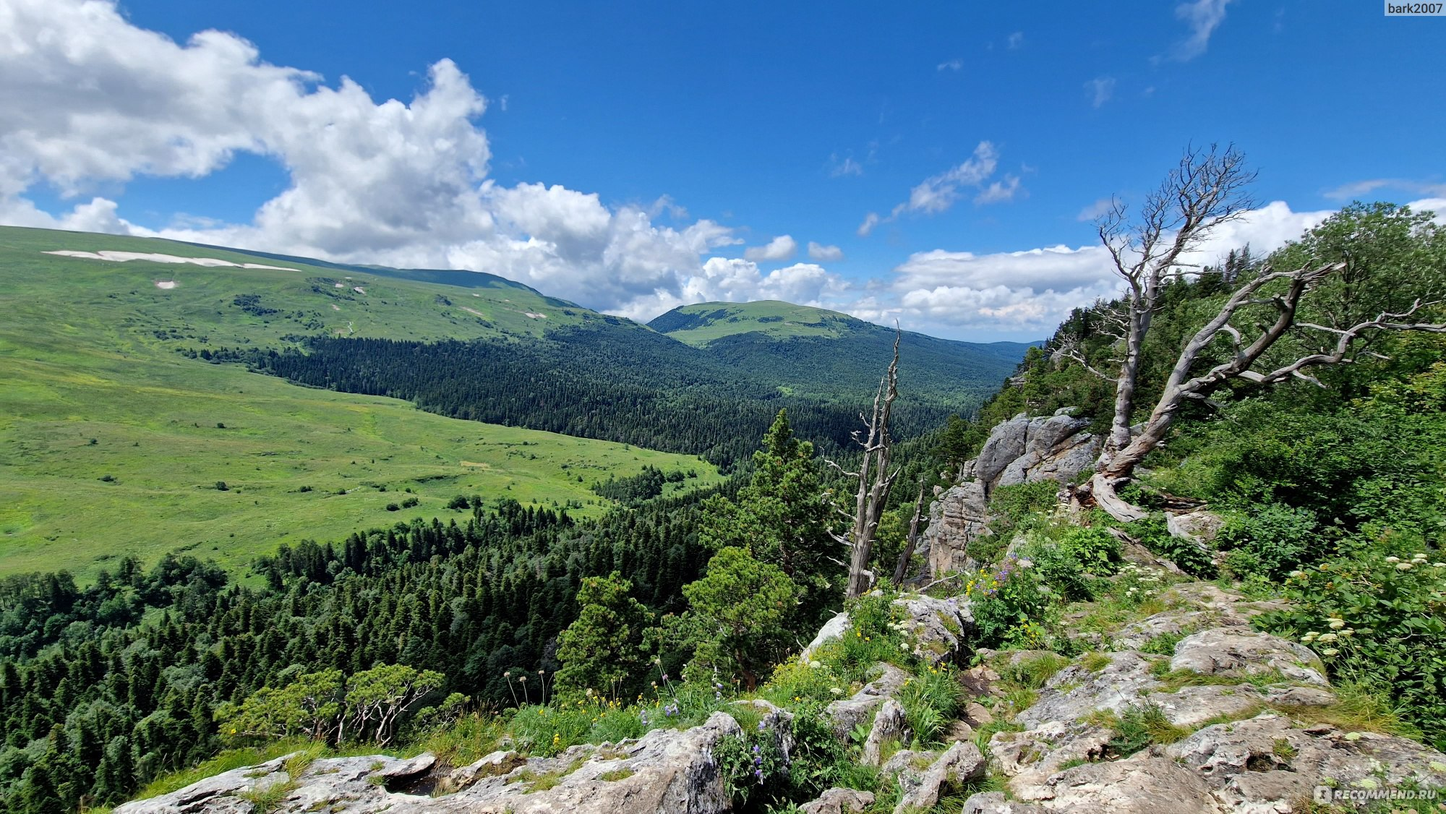
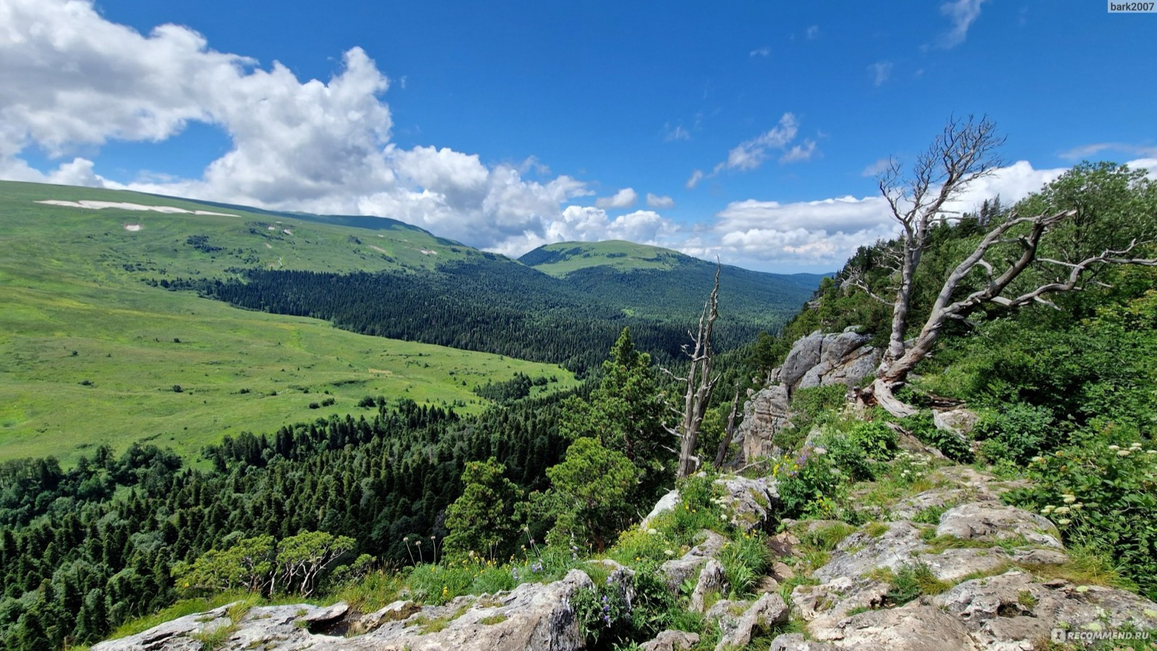
Gornye Vysoty: real assets, simplified plan filters, remove floor param
- Simplify planirovki filters to rooms only (drop area/budget selects) —
  price is now a constant per room count, area filter was redundant
- Wire in real client assets (hero photo, logo, feature icons, lifestyle
  photos, route photo, floor plan renders for studio/1k/2k/3k)
- Compress oversized hero/route images, drop stale duplicate uploads
- Add real floor plan images + accurate areas to planirovki.json

Changed region(s): [[0.9688, 0.7778, 1.0, 0.8089], [0.9062, 0.7778, 0.9375, 0.8089]]

diff --git a/gornye-vysoty/index.html b/gornye-vysoty/index.html
@@ -161,7 +161,7 @@
         </div>
         <div class="gv-catalog-footer">
         <div class="gv-catalog-price">
-          <div class="gv-catalog-price-main">От 4,05 млн руб.*</div>
+          <div class="gv-catalog-price-main">От 5,6 млн руб.*</div>
           <div class="gv-catalog-price-sub">Платёж от 21 400 ₽ в месяц</div>
         </div>
           <div class="gv-catalog-actions">
@@ -222,7 +222,7 @@
         </div>
         <div class="gv-catalog-footer">
         <div class="gv-catalog-price">
-          <div class="gv-catalog-price-main">От 5,2 млн руб.*</div>
+          <div class="gv-catalog-price-main">От 7,7 млн руб.*</div>
           <div class="gv-catalog-price-sub">Платёж от 27 600 ₽ в месяц</div>
         </div>
           <div class="gv-catalog-actions">
@@ -283,7 +283,7 @@
         </div>
         <div class="gv-catalog-footer">
         <div class="gv-catalog-price">
-          <div class="gv-catalog-price-main">От 6,9 млн руб.*</div>
+          <div class="gv-catalog-price-main">От 11 млн руб.*</div>
           <div class="gv-catalog-price-sub">Платёж от 36 200 ₽ в месяц</div>
         </div>
           <div class="gv-catalog-actions">
@@ -385,31 +385,11 @@
         <span class="gv-filter-label">Комнат</span>
         <div class="gv-chip-row" id="filter-rooms">
           <button class="gv-chip is-active" data-rooms="all">Все</button>
-          <button class="gv-chip" data-rooms="1">Студия/1</button>
+          <button class="gv-chip" data-rooms="0">Студия</button>
+          <button class="gv-chip" data-rooms="1">1</button>
           <button class="gv-chip" data-rooms="2">2</button>
           <button class="gv-chip" data-rooms="3">3</button>
-          <button class="gv-chip" data-rooms="4">4+</button>
         </div>
-      </div>
-      <div class="gv-filter">
-        <span class="gv-filter-label">Площадь, м²</span>
-        <select class="gv-input" id="filter-area">
-          <option value="all">Любая</option>
-          <option value="0-40">до 40</option>
-          <option value="40-60">40—60</option>
-          <option value="60-80">60—80</option>
-          <option value="80-999">от 80</option>
-        </select>
-      </div>
-      <div class="gv-filter">
-        <span class="gv-filter-label">Бюджет, ₽</span>
-        <select class="gv-input" id="filter-price">
-          <option value="all">Любой</option>
-          <option value="0-4000000">до 4 млн</option>
-          <option value="4000000-6000000">4—6 млн</option>
-          <option value="6000000-8000000">6—8 млн</option>
-          <option value="8000000-999999999">от 8 млн</option>
-        </select>
       </div>
     </div>
 
@@ -433,32 +413,33 @@
         </div>
 
         <div class="gv-mortgage-field">
-          <div class="gv-mortgage-field-top">
-            <span class="gv-field-label">Стоимость, ₽</span>
-            <span class="gv-title" id="calc-price-out">3 700 000</span>
+          <span class="gv-field-label">Стоимость квартиры, ₽</span>
+          <div class="gv-mortgage-value-row">
+            <span class="gv-mortgage-value" id="calc-price-out">3 700 000 ₽</span>
           </div>
           <input class="gv-mortgage-range" type="range" id="calc-price" min="3700000" max="12000000" step="50000" value="3700000">
         </div>
 
         <div class="gv-mortgage-field">
-          <div class="gv-mortgage-field-top">
-            <span class="gv-field-label">Первый взнос, ₽</span>
-            <span class="gv-title" id="calc-down-out">1 000 000</span>
+          <span class="gv-field-label">Первый взнос, ₽</span>
+          <div class="gv-mortgage-value-row">
+            <span class="gv-mortgage-value" id="calc-down-out">1 000 000 ₽</span>
+            <span class="gv-mortgage-percent" id="calc-down-percent">27%</span>
           </div>
           <input class="gv-mortgage-range" type="range" id="calc-down" min="0" max="6000000" step="50000" value="1000000">
         </div>
 
         <div class="gv-mortgage-field">
-          <div class="gv-mortgage-field-top">
-            <span class="gv-field-label">Срок кредита</span>
-            <span class="gv-title" id="calc-term-out">1 год</span>
+          <span class="gv-field-label">Срок кредита</span>
+          <div class="gv-mortgage-value-row">
+            <span class="gv-mortgage-value" id="calc-term-out">1 год</span>
           </div>
           <input class="gv-mortgage-range" type="range" id="calc-term" min="1" max="30" step="1" value="1">
         </div>
 
-        <div class="gv-mortgage-field">
+        <div class="gv-mortgage-field gv-mortgage-field--phone">
           <span class="gv-field-label">Телефон</span>
-          <input class="gv-input" type="tel" id="calc-phone" placeholder="+7">
+          <input class="gv-mortgage-input" type="tel" id="calc-phone" placeholder="Введите номер">
         </div>
 
         <label class="gv-mortgage-agree">

diff --git a/gornye-vysoty/styles/landing.css b/gornye-vysoty/styles/landing.css
@@ -85,35 +85,48 @@
 
 /* ── ПОДБОР ИПОТЕКИ ── */
 .gv-mortgage { display: grid; grid-template-columns: 1fr 1fr; gap: var(--gv-sp-32); align-items: stretch; }
-.gv-mortgage-form { display: flex; flex-direction: column; gap: var(--gv-sp-24); }
+.gv-mortgage-form { display: flex; flex-direction: column; gap: var(--gv-sp-16); }
 
 .gv-mortgage-tabs { gap: var(--gv-sp-8); }
 .gv-chip--dark { background: var(--gv-ink); color: var(--gv-white); }
 .gv-chip--dark.is-active { background: var(--gv-ink); color: var(--gv-white); }
 
 .gv-mortgage-field {
-  background: var(--gv-white); border-radius: 12px;
-  padding: 14px 16px;
-  display: flex; flex-direction: column; gap: var(--gv-sp-8);
+  background: var(--gv-bg); border-radius: 20px;
+  padding: 16px 16px 0px;
+  display: flex; flex-direction: column; gap: 4px;
 }
+.gv-mortgage-field--phone { padding: 16px; }
 .gv-mortgage-field-top { display: flex; flex-direction: column; gap: 4px; }
+
+.gv-mortgage-field .gv-field-label { font-size: 14px; line-height: 16px; }
+.gv-mortgage-value-row { display: flex; align-items: baseline; justify-content: space-between; }
+.gv-mortgage-value { font-family: var(--gv-font); font-weight: 500; font-size: 16px; line-height: 20px; color: var(--gv-ink); }
+.gv-mortgage-percent { font-family: var(--gv-font); font-size: 14px; color: var(--gv-ink); opacity: 0.4; }
 
 .gv-mortgage-range {
   -webkit-appearance: none; appearance: none;
-  width: 100%; height: 4px; border-radius: 100px;
-  background: rgba(58,73,81,0.15);
+  width: 100%; height: 2px; border-radius: 0;
+  background: var(--gv-ink);
+  margin-top: 12px;
   cursor: pointer;
 }
 .gv-mortgage-range::-webkit-slider-thumb {
   -webkit-appearance: none; appearance: none;
-  width: 18px; height: 18px; border-radius: 50%;
-  background: var(--gv-accent); border: 3px solid var(--gv-white);
-  box-shadow: 0 0 0 1px var(--gv-accent);
+  width: 24px; height: 24px; border-radius: 50%;
+  background: var(--gv-white); border: 2px solid var(--gv-ink);
 }
 .gv-mortgage-range::-moz-range-thumb {
-  width: 18px; height: 18px; border-radius: 50%; border: 3px solid var(--gv-white);
-  background: var(--gv-accent); box-shadow: 0 0 0 1px var(--gv-accent);
+  width: 24px; height: 24px; border-radius: 50%; border: 2px solid var(--gv-ink);
+  background: var(--gv-white);
 }
+
+.gv-mortgage-input {
+  font-family: var(--gv-font); font-weight: 500; font-size: 16px; line-height: 20px;
+  color: var(--gv-ink); background: transparent; border: none; padding: 0; width: 100%;
+}
+.gv-mortgage-input::placeholder { color: var(--gv-ink); opacity: 0.4; }
+.gv-mortgage-input:focus { outline: none; }
 
 .gv-mortgage-agree { display: flex; align-items: flex-start; gap: var(--gv-sp-8); }
 .gv-mortgage-agree input { margin-top: 3px; accent-color: var(--gv-accent); }
@@ -158,7 +171,7 @@
   display: grid; grid-template-columns: repeat(4, 1fr); gap: var(--gv-sp-16);
 }
 .gv-plan-card {
-  background: var(--gv-white); border-radius: 20px; overflow: hidden;
+  background: var(--gv-bg); border-radius: 20px; overflow: hidden;
   display: flex; flex-direction: column;
   transition: transform 0.15s ease, box-shadow 0.15s ease;
 }
@@ -168,6 +181,8 @@
 .gv-plan-card-title { font-weight: 700; font-size: 18px; }
 .gv-plan-card-meta { font-size: 14px; opacity: 0.6; }
 .gv-plan-card-price { font-weight: 700; font-size: 18px; color: var(--gv-accent); margin-top: var(--gv-sp-4); }
+.gv-plan-card-actions { display: flex; flex-direction: column; gap: 8px; margin-top: var(--gv-sp-8); }
+.gv-plan-card-actions .gv-btn { width: 100%; }
 
 .gv-plans-empty { padding: var(--gv-sp-56) 0; text-align: center; opacity: 0.5; }
 
@@ -176,7 +191,7 @@
 @media (max-width: 480px)  { .gv-plans-grid { grid-template-columns: 1fr; } }
 
 /* ── КАТАЛОГ КВАРТИР ── */
-#catalog { background: var(--gv-white); }
+#catalog, #calculator, #plans { background: var(--gv-white); }
 .gv-catalog-grid { display: flex; flex-direction: column; gap: var(--gv-sp-16); }
 .gv-catalog-card {
   display: grid; grid-template-columns: 42% 1fr;
@@ -267,7 +282,8 @@
   display: flex; gap: var(--gv-sp-16);
   overflow-x: auto; scroll-snap-type: x mandatory;
   scrollbar-width: none; -webkit-overflow-scrolling: touch;
-  margin: 0 calc(-1 * var(--gv-side)); padding: 0 var(--gv-side);
+  margin-right: calc(-1 * var(--gv-side));
+  padding-right: 0;
 }
 .gv-routes-track::-webkit-scrollbar { display: none; }
 

diff --git a/gornye-vysoty/js/plans.js b/gornye-vysoty/js/plans.js
@@ -5,8 +5,6 @@
   var countEl = document.getElementById('plans-count');
   var emptyEl = document.getElementById('plans-empty');
   var roomsWrap = document.getElementById('filter-rooms');
-  var areaSelect = document.getElementById('filter-area');
-  var priceSelect = document.getElementById('filter-price');
 
   var allPlans = [];
   var activeRooms = 'all';
@@ -15,17 +13,8 @@
     return Math.round(n).toLocaleString('ru-RU') + ' ₽';
   }
 
-  function matchesRange(value, rangeStr) {
-    if (rangeStr === 'all') return true;
-    var parts = rangeStr.split('-');
-    var min = Number(parts[0]);
-    var max = Number(parts[1]);
-    return value >= min && value <= max;
-  }
-
   function matchesRooms(plan) {
     if (activeRooms === 'all') return true;
-    if (activeRooms === '4') return plan.rooms >= 4;
     return plan.rooms === Number(activeRooms);
   }
 
@@ -38,22 +27,19 @@
         img +
         '<div class="gv-plan-card-body">' +
           '<div class="gv-plan-card-title">' + plan.title + '</div>' +
-          '<div class="gv-plan-card-meta">' + plan.area + ' м² · ' + plan.floor + ' этаж</div>' +
+          '<div class="gv-plan-card-meta">' + plan.area + ' м²</div>' +
           '<div class="gv-plan-card-price">' + formatRub(plan.price) + '</div>' +
+          '<div class="gv-plan-card-actions">' +
+            '<a href="#calculator" class="gv-btn gv-btn--outline gv-btn--s">Рассчитать ипотеку</a>' +
+            '<a href="#" class="gv-btn gv-btn--s">Получить скидку</a>' +
+          '</div>' +
         '</div>' +
       '</article>'
     );
   }
 
   function render() {
-    var areaRange = areaSelect.value;
-    var priceRange = priceSelect.value;
-
-    var filtered = allPlans.filter(function (plan) {
-      return matchesRooms(plan) &&
-        matchesRange(plan.area, areaRange) &&
-        matchesRange(plan.price, priceRange);
-    });
+    var filtered = allPlans.filter(matchesRooms);
 
     countEl.textContent = 'Найдено планировок: ' + filtered.length;
     grid.innerHTML = filtered.map(cardHTML).join('');
@@ -69,8 +55,6 @@
     btn.classList.add('is-active');
     render();
   });
-  areaSelect.addEventListener('change', render);
-  priceSelect.addEventListener('change', render);
 
   fetch('data/planirovki.json')
     .then(function (r) { return r.json(); })

diff --git a/gornye-vysoty/js/calculator.js b/gornye-vysoty/js/calculator.js
@@ -7,6 +7,7 @@
   var priceOut = document.getElementById('calc-price-out');
   var downOut = document.getElementById('calc-down-out');
   var termOut = document.getElementById('calc-term-out');
+  var downPercentOut = document.getElementById('calc-down-percent');
 
   function formatNum(n) {
     return Math.round(n).toLocaleString('ru-RU');
@@ -24,9 +25,13 @@
   }
 
   function recalc() {
-    priceOut.textContent = formatNum(priceEl.value);
-    downOut.textContent = formatNum(downEl.value);
+    priceOut.textContent = formatNum(priceEl.value) + ' ₽';
+    downOut.textContent = formatNum(downEl.value) + ' ₽';
     termOut.textContent = yearsLabel(Number(termEl.value));
+    if (downPercentOut) {
+      var percent = Number(priceEl.value) > 0 ? Math.round(Number(downEl.value) / Number(priceEl.value) * 100) : 0;
+      downPercentOut.textContent = percent + '%';
+    }
   }
 
   [priceEl, downEl, termEl].forEach(function (el) {
@@ -34,6 +39,20 @@
   });
 
   recalc();
+})();
+
+(function () {
+  var phone = document.getElementById('calc-phone');
+  if (!phone) return;
+  phone.addEventListener('input', function () {
+    if (phone.value && phone.value.indexOf('+7') !== 0) {
+      var digits = phone.value.replace(/\D/g, '').replace(/^7/, '');
+      phone.value = '+7' + digits;
+    }
+  });
+  phone.addEventListener('focus', function () {
+    if (!phone.value) phone.value = '+7';
+  });
 })();
 
 (function () {

diff --git a/gornye-vysoty/admin/server.py b/gornye-vysoty/admin/server.py
@@ -32,6 +32,14 @@ IMAGES_MANIFEST = os.path.join(PROJECT_DIR, 'data', 'images.json')
 
 os.makedirs(IMAGES_DIR, exist_ok=True)
 
+# Цена — константа по количеству комнат (0 = студия), не вводится вручную
+PRICE_BY_ROOMS = {
+    0: 3700000,
+    1: 5600000,
+    2: 7700000,
+    3: 11000000,
+}
+
 
 # ── Работа с данными ──────────────────────────────────────────
 
@@ -130,15 +138,16 @@ ADMIN_PAGE = """<!DOCTYPE html>
     <label>Картинка планировки</label>
     <input type="file" name="image" accept="image/*" required>
     <label>Название</label>
-    <input type="text" name="title" placeholder="2-комн. 52,1 м²" required>
+    <input type="text" name="title" placeholder="2-комн. 58,4 м²" required>
     <label>Комнат</label>
-    <input type="number" name="rooms" min="0" max="10" required>
+    <select name="rooms" required>
+      <option value="0">Студия</option>
+      <option value="1">1</option>
+      <option value="2">2</option>
+      <option value="3">3</option>
+    </select>
     <label>Площадь, м²</label>
     <input type="number" name="area" step="0.1" required>
-    <label>Этаж</label>
-    <input type="number" name="floor" min="1" required>
-    <label>Цена, ₽</label>
-    <input type="number" name="price" step="1000" required>
     <button type="submit">Добавить планировку</button>
   </form>
 </div>
@@ -158,14 +167,14 @@ def render_plan_cards(plans):
         out.append(
             '<div class="plan">'
             '<img src="/{img}" alt="">'
-            '<div class="meta"><b>{title}</b><br>{area} м² · {floor} эт. · {price} ₽</div>'
+            '<div class="meta"><b>{title}</b><br>{area} м² · {price} ₽</div>'
             '<form method="POST" action="/admin/delete" style="margin:0;">'
             '<input type="hidden" name="id" value="{id}">'
             '<button class="danger" type="submit" onclick="return confirm(\'Удалить {id}?\')">Удалить</button>'
             '</form>'
             '</div>'.format(
                 img=img, title=p.get('title', ''), area=p.get('area', ''),
-                floor=p.get('floor', ''), price=p.get('price', 0), id=p.get('id', '')
+                price=p.get('price', 0), id=p.get('id', '')
             )
         )
     return '\n'.join(out) or '<p style="opacity:0.5">Пока нет планировок</p>'
@@ -289,14 +298,14 @@ class Handler(BaseHTTPRequestHandler):
         with open(fpath, 'wb') as f:
             f.write(image_field.file.read())
 
+        rooms = int(form.getvalue('rooms', 0))
         entry = {
             'id': pid,
             'image': 'images/planirovki/' + filename,
             'title': form.getvalue('title', ''),
-            'rooms': int(form.getvalue('rooms', 0)),
+            'rooms': rooms,
             'area': float(form.getvalue('area', 0)),
-            'floor': int(form.getvalue('floor', 0)),
-            'price': int(float(form.getvalue('price', 0))),
+            'price': PRICE_BY_ROOMS.get(rooms, 0),
         }
         plans.append(entry)
         save_json(DATA_FILE, plans)
